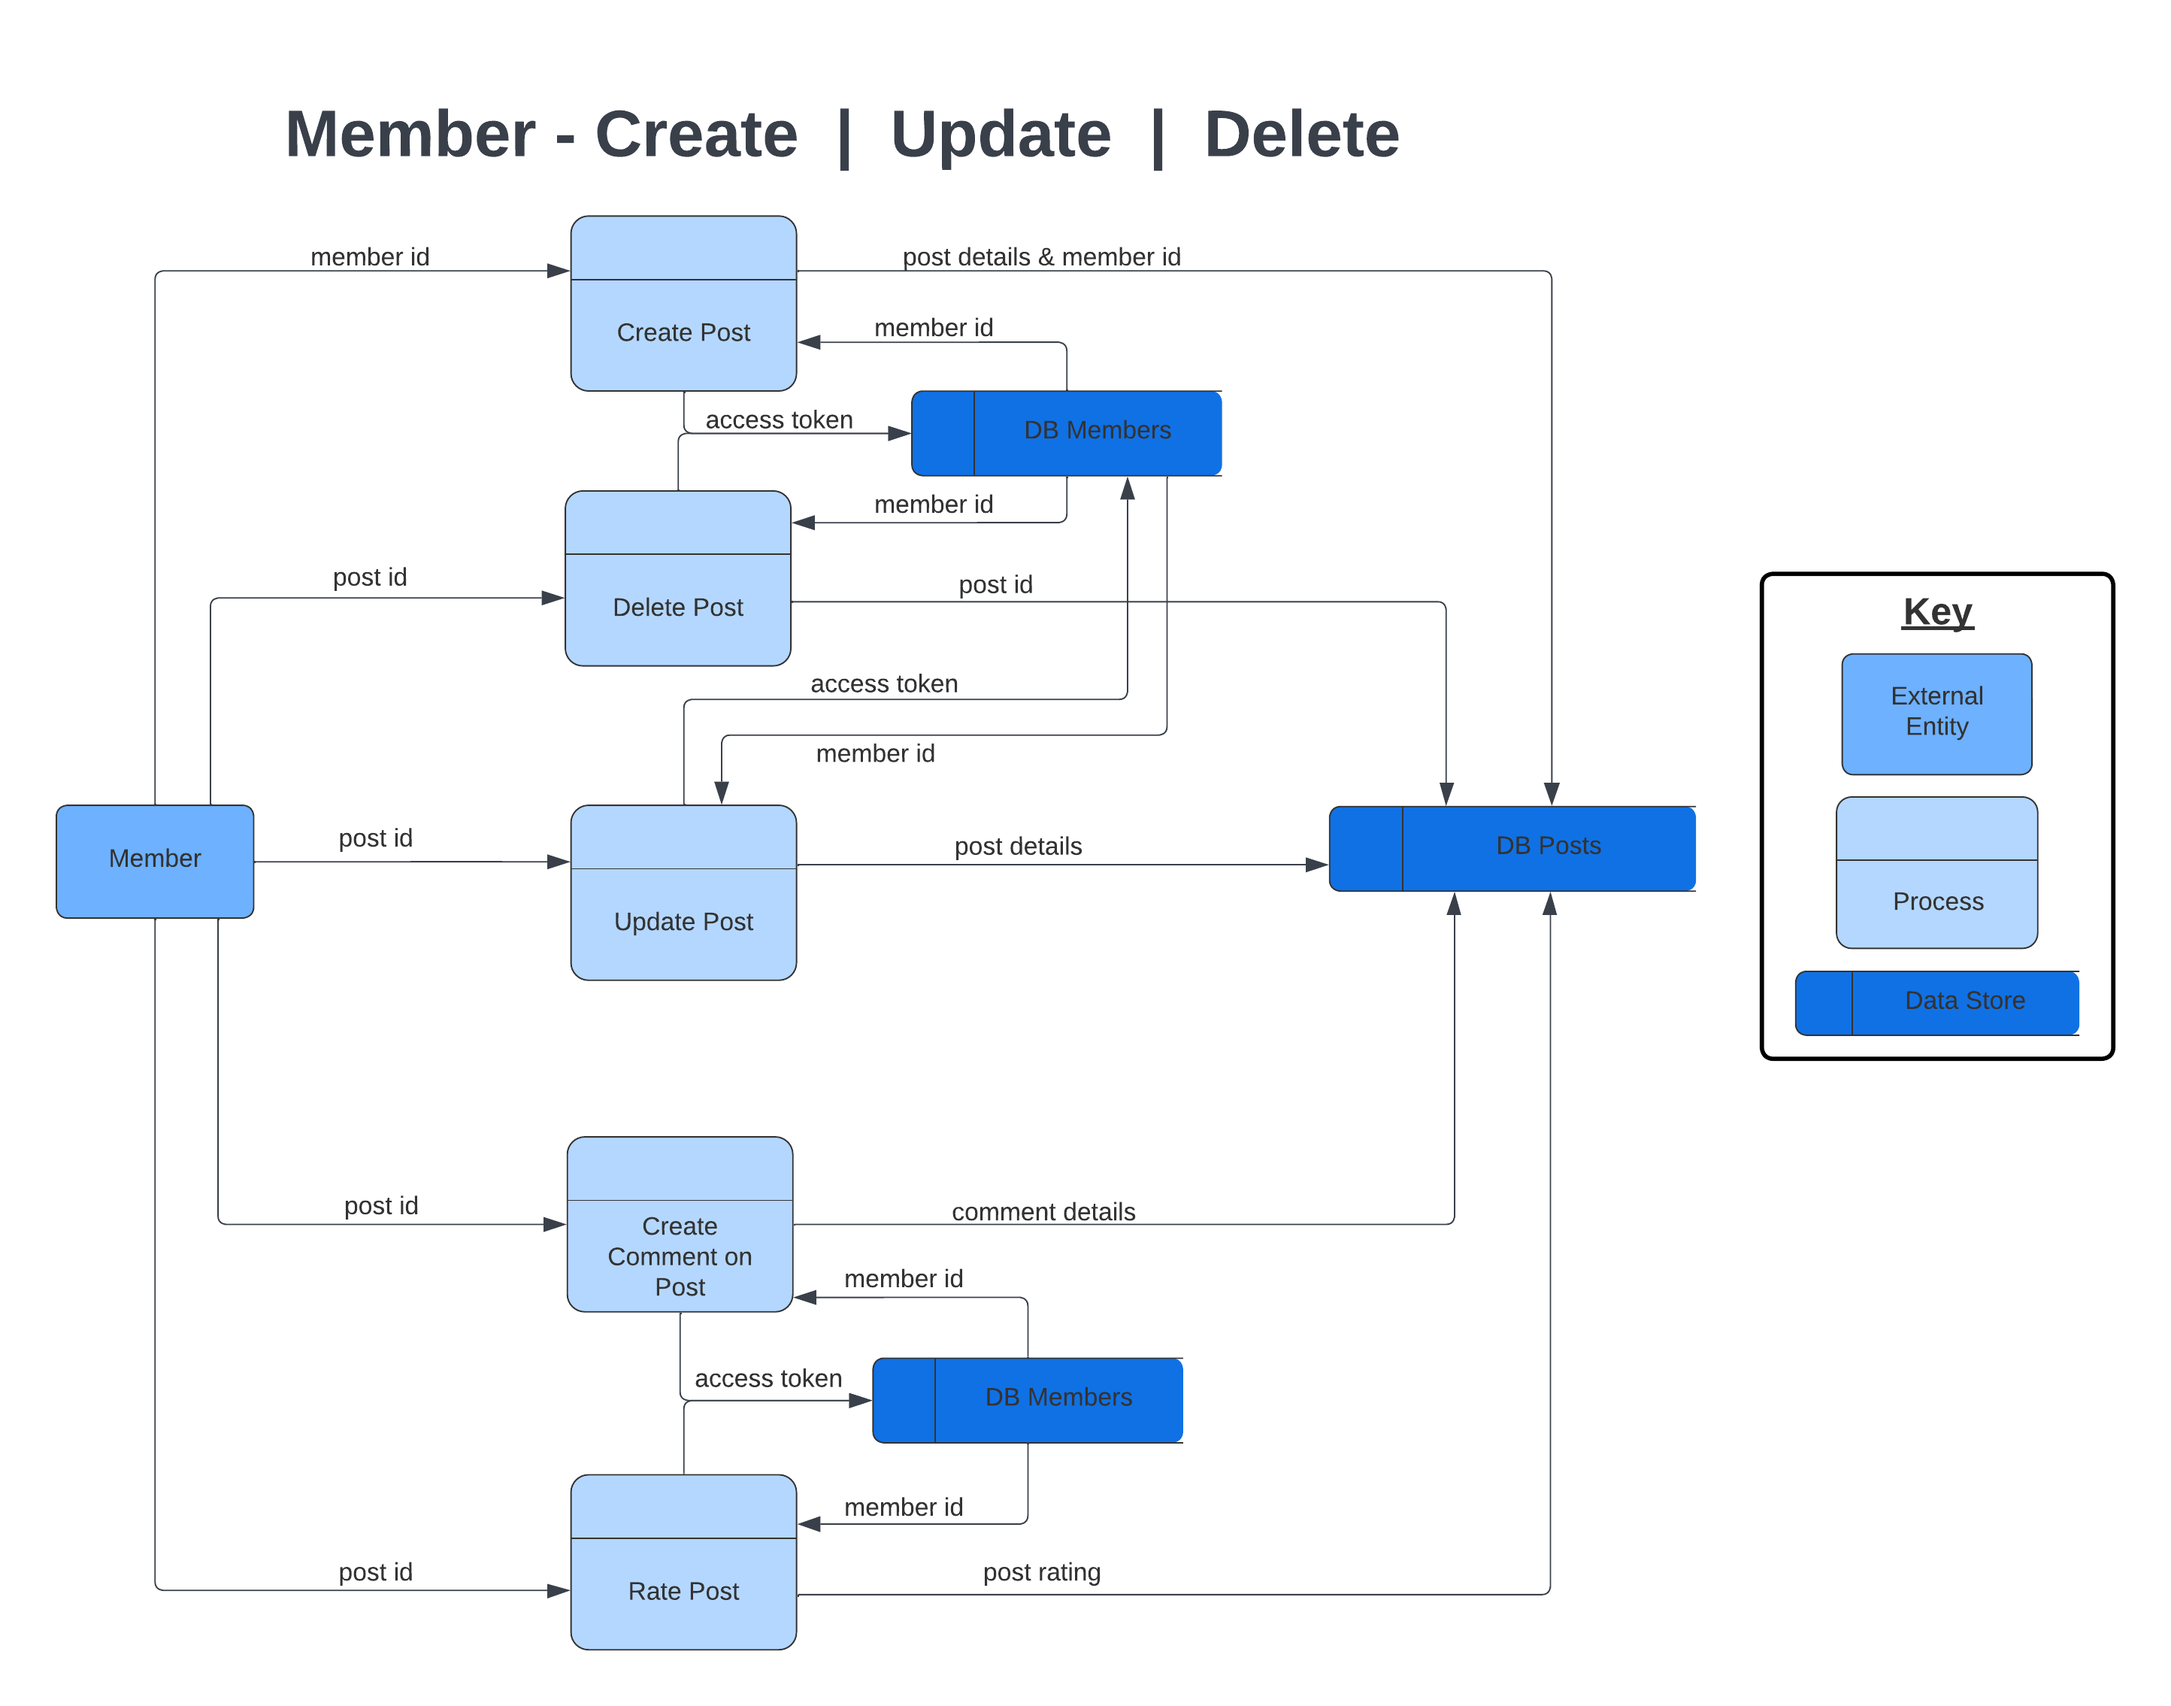
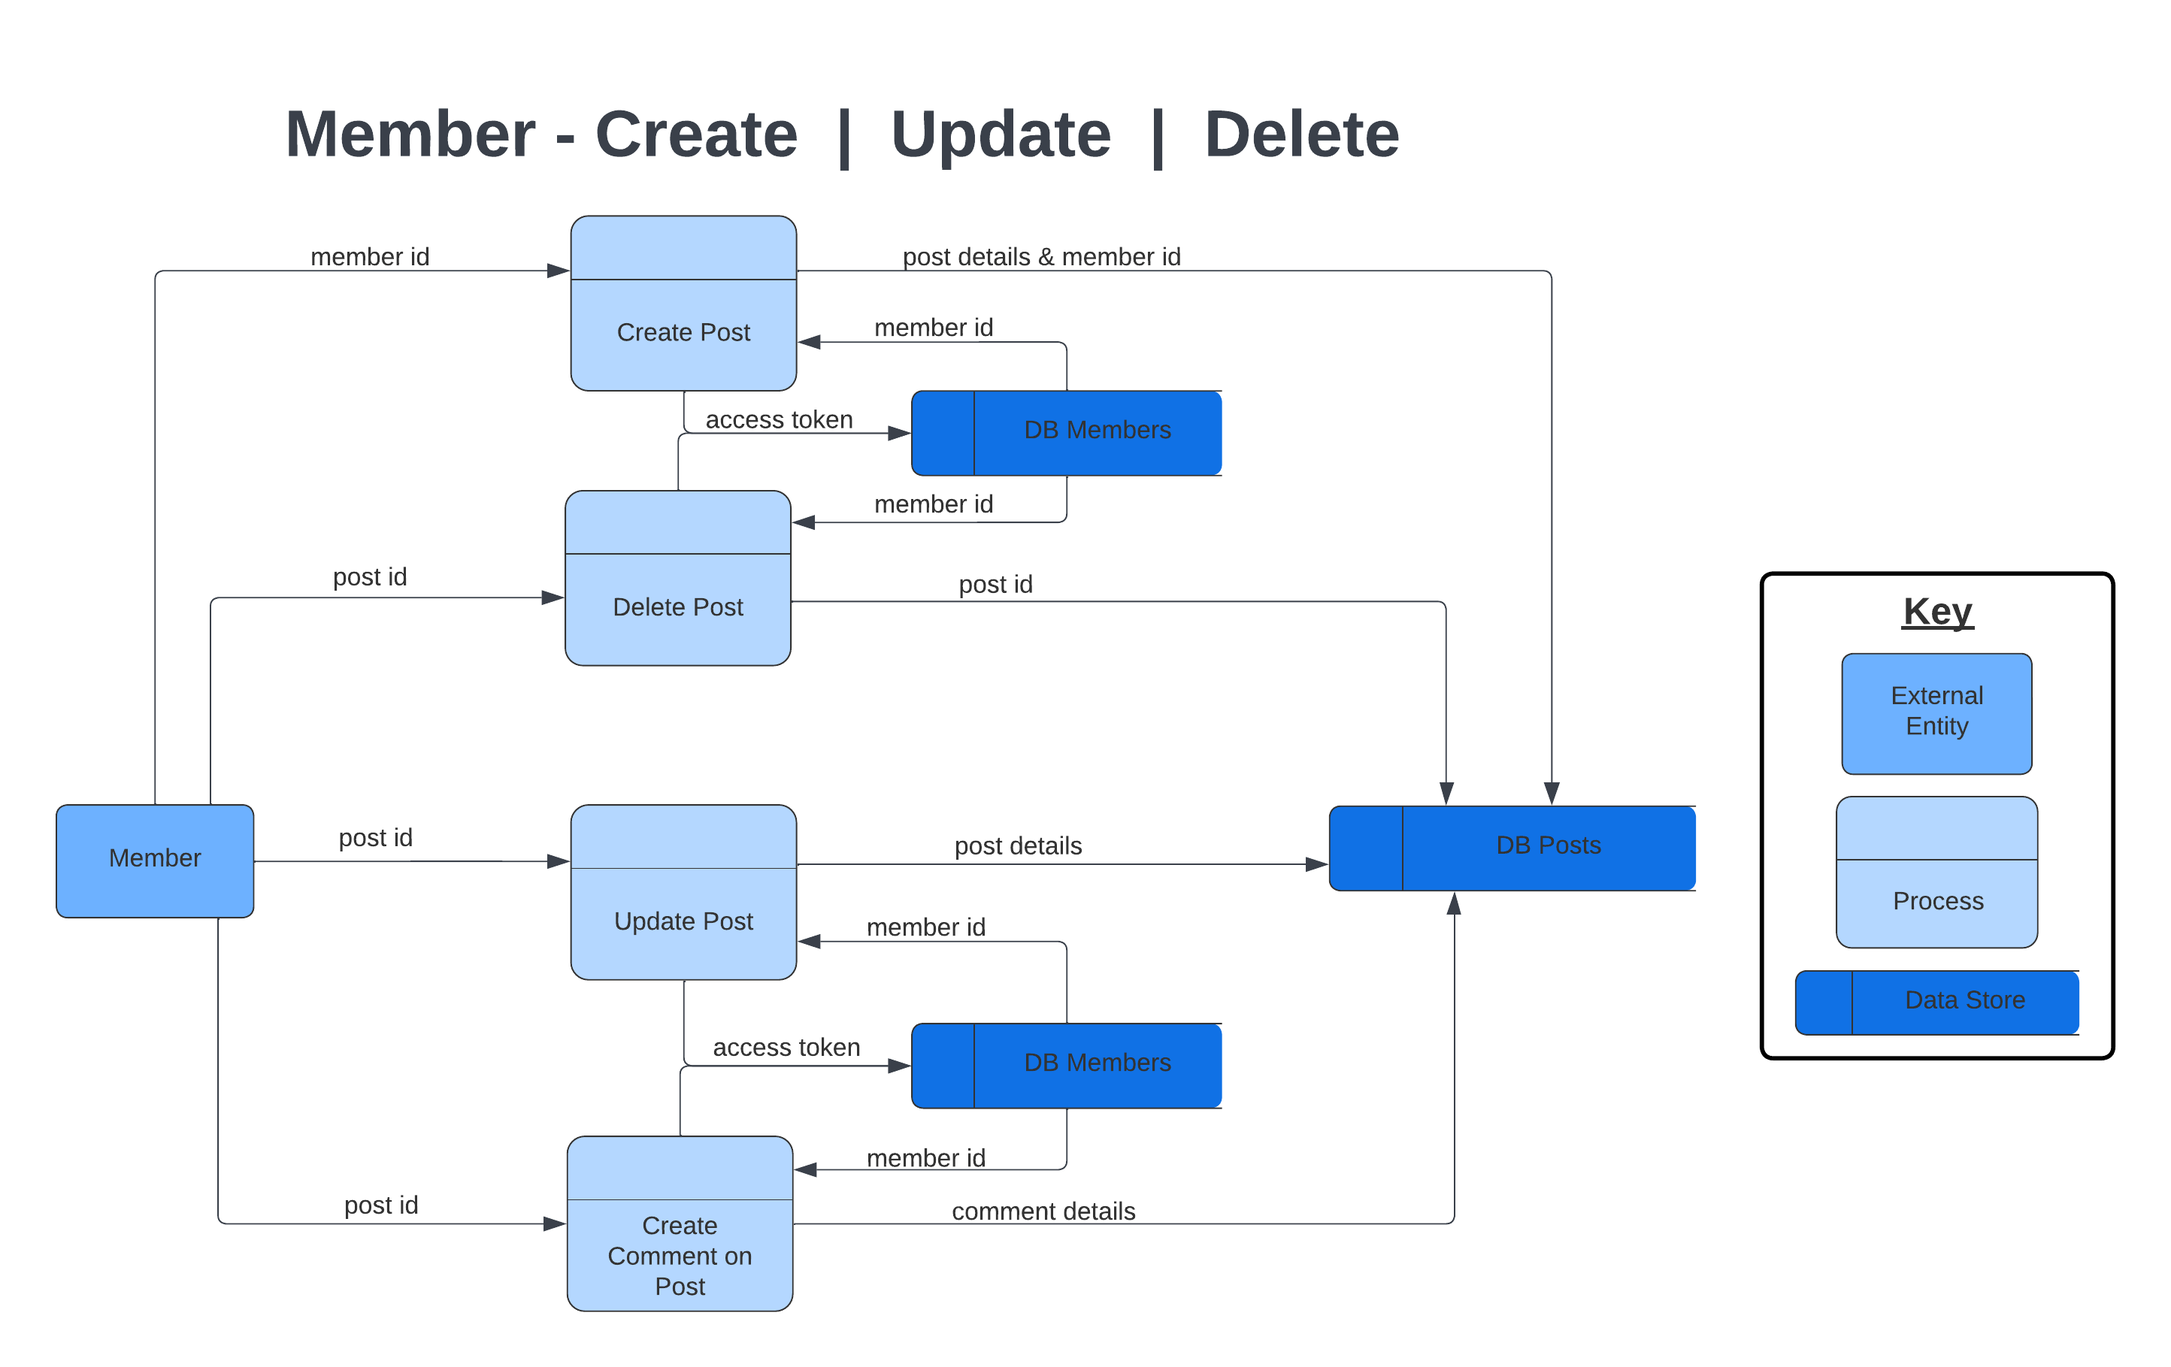
Adjusted AAD and DFDs. Removed non applicable user stories. Added additional features section in R1

diff --git a/README.md b/README.md
@@ -35,12 +35,17 @@ This project aims to provide an online forum to allow people to share their trav
 
 ### Functionality / Features
 
+- Read the latest travel stories
+- Find travel stories from your favourite continent
 - Site Navigation
 - Member Account Creation
 - Post your travel story
-- Commenting on posts
-- Rate members travel stories
-- Find stories from your favourite continent
+- Comment on posts
+
+Additional features to be added if time allows:
+
+- Allow members to rate posts
+- Allow members to add posts to their 'favourites'
 
 ### Target Audience
 
@@ -115,7 +120,6 @@ Initial user stories were created to outline desired features that reflect the p
 - As a user I want to see the latest forum posts.
 - As a user I want to see posts about a particular continent .
 - As a user I want to read other users' comments on travel posts.
-- As a user I want to see how a post has been rated.
 - As a user I want to be able to view an about page with information about the websites intended purpose and other background information.
 - As a user I want to be able to view a contact page so I can message the creators about any issues with the website.
 - As a user I want to be able to sign up to the forum.
@@ -128,7 +132,6 @@ Initial user stories were created to outline desired features that reflect the p
 - As a member I want to comment on my own posts.
 - As a member I want to be able to edit posts I have already made.
 - As a member I want to be able to delete a post I made.
-- As a member, I want to be able to rate other members' posts.
 
 User stories were then revised to reflect any changes to features and to provide context for why specific features will be developed.
 
@@ -140,7 +143,6 @@ User stories were then revised to reflect any changes to features and to provide
 - As a user I want to see the latest forum posts so I can keep up with current trends in travel and the forum community.
 - As a user I want to see posts about a particular continent  so I can find out more about that region and if I want to travel there.
 - As a user I want to read other users' comments on travel posts so I can see what others think to help me decide if I want to travel there.
-- As a user I want to see how a post has been rated so I can tell at a glance if I want to read it.
 - As a user I want to be able to view an about page with information about the websites intended purpose and other background information so I can get a better understanding of the creators intent
 - As a user I want to be able to view a contact page so I can message the creators about any issues with the website
 - As a user I want to be able to sign up to the forum so I can engage with and contribute to the forum community and use all the site features.
@@ -153,7 +155,6 @@ User stories were then revised to reflect any changes to features and to provide
 - As a member I want to comment on my own posts so I can answer any questions and engage with the community interested in my travel story.
 - As a member I want to be able to edit posts I have already made so I can fix any mistakes and keep my story up-to-date if I think of something I should have added..
 - As a member I want to be able to delete a post I made so I can remove posts that I’ve decided I don’t like anymore.
-- As a member, I want to be able to rate other members' posts so I can have my opinion on if their travel story was good.
 
 ## **R5 - Wireframes for Desktop, Mobile and Tablet**
 
